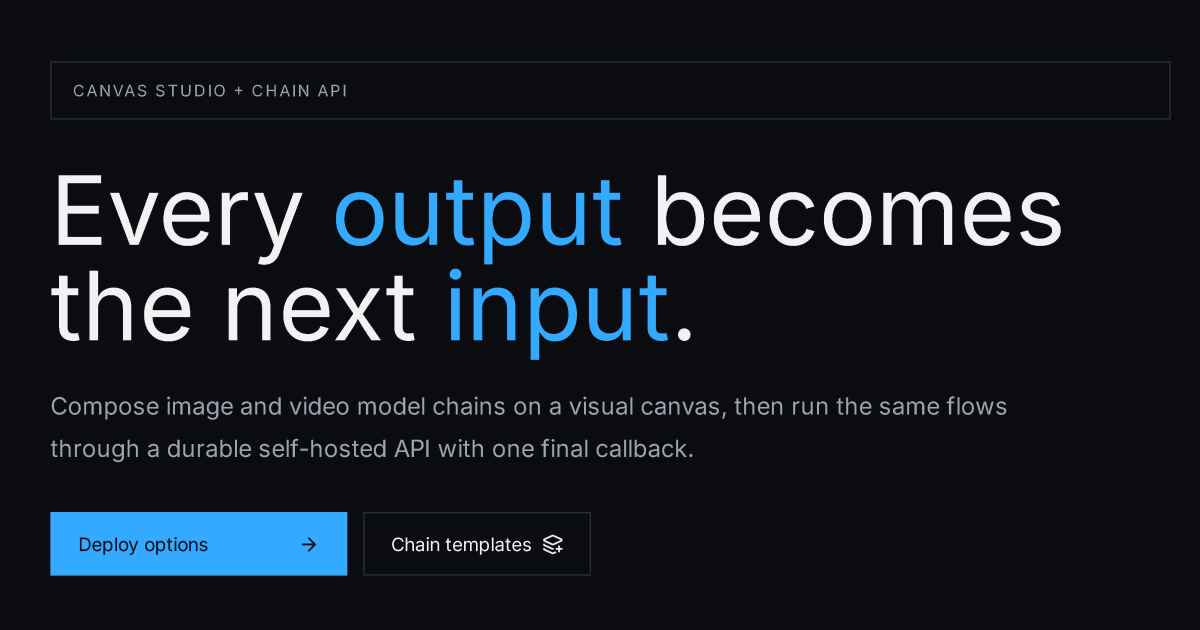
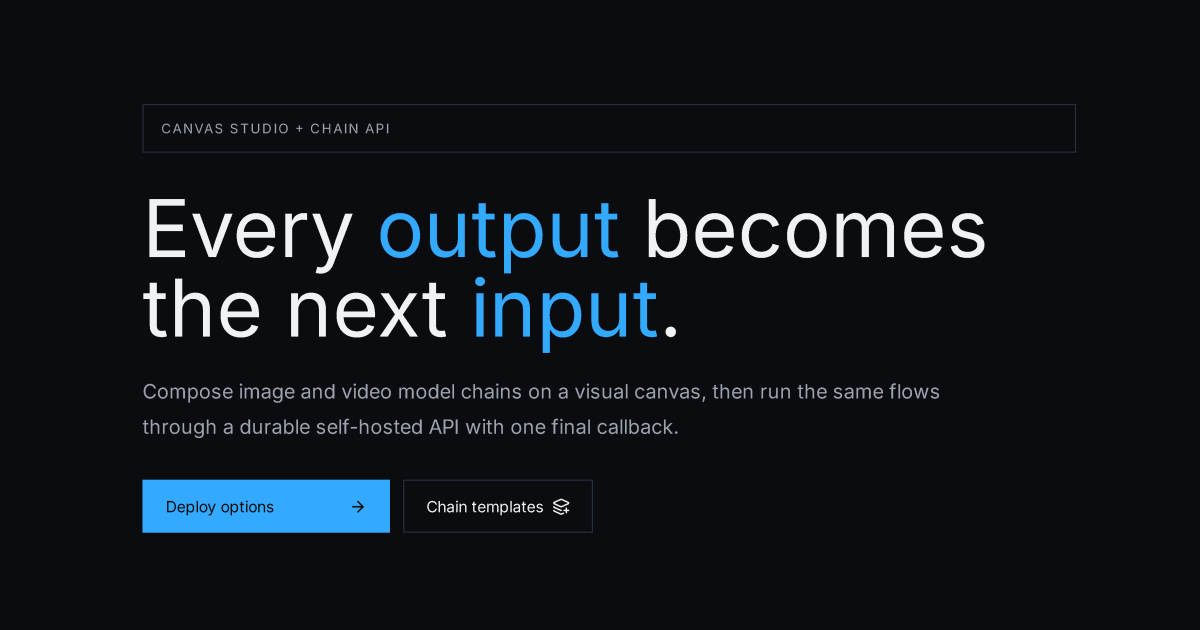
Deploy babychain OSS: 004
Package version: v0.1.0.

Publish the standalone babychain OSS. See CHANGELOG.md for the complete change summary.

diff --git a/README.md b/README.md
@@ -56,6 +56,10 @@ Canvas studio and durable chain API for image and video model workflows with one
 
 <img src="public/dashboard.png" alt="BabyChain dashboard" />
 
+<br />
+
+<img src="public/hero.png" alt="BabyChain hero" />
+
 </div>
 
 <br />
@@ -94,20 +98,20 @@ See [`CHANGELOG.md`](CHANGELOG.md) to track releases and public contract changes
 
 ## Overview
 
-BabyChain is a visual studio for chaining generative media models, backed by a durable HTTP API. Owners compose multi-flow image → video chains on a canvas — every edit persists automatically to Aurora — and the exact same chain contract is callable from product code through authenticated API routes. There is no local model/GPU runtime requirement and no caller-side provider keys: deploy BabyChain, configure server-side credentials, design flows on the canvas, run them in place, and let products call the same durable API.
+BabyChain is a visual studio for chaining generative media models, backed by a durable HTTP API. Owners compose multi-flow image → video chains on a canvas, every edit persists automatically to Aurora, and the exact same chain contract is callable from product code through authenticated API routes. There is no local model/GPU runtime requirement and no caller-side provider keys: deploy BabyChain, configure server-side credentials, design flows on the canvas, run them in place, and let products call the same durable API.
 
 ## Why BabyChain
 
-BabyChain turns model-to-model media workflows into durable backend runs. Compose flows on the canvas or send one API request — either way BabyChain starts the chain, persists every step, hands generated media from one model to the next, and sends one signed callback when the final result is ready.
+BabyChain turns model-to-model media workflows into durable backend runs. Compose flows on the canvas or send one API request. Either way, BabyChain starts the chain, persists every step, hands generated media from one model to the next, and sends one signed callback when the final result is ready.
 
 - **Multi-flow canvas studio**: run many independent image → video flows side by side on one permanent workspace. Every edit autosaves to Aurora and survives reloads, logout, and device switches; only an explicit reset clears it.
-- **Run in place, save what matters**: each flow ends in a runner card — "Run only" streams step outputs onto the canvas; "Run and save" also snapshots the flow into the Library with its results.
-- **Same contract for products**: the canvas drives `POST /api/v1/chains/runs` — the exact API your product code calls. Nothing is studio-only magic.
+- **Run in place, save what matters**: each flow ends in a runner card. "Run only" streams step outputs onto the canvas; "Run and save" also snapshots the flow into the Library with its results.
+- **Same contract for products**: the canvas drives `POST /api/v1/chains/runs`, the exact API your product code calls. Nothing is studio-only magic.
 - **Self-hosted control plane**: deploy on Vercel with your own environment and secrets.
 - **Server-side credentials**: keep inference provider keys or BabySea keys inside your backend. Caller apps only use BabyChain API keys.
 - **Durable execution**: store run state, ordered steps, provider request ids, generation ids, outputs, callbacks, and failure details in Aurora.
 - **Product-ready callbacks**: return a public run resource from create/get routes and send the same resource through one final signed webhook.
-- **Schema-true node cards**: canvas fields are generated from each model's Semantic Lady schema — exact fields, enum options, ranges, and defaults — so the UI can never offer a parameter the run API would reject.
+- **Schema-true node cards**: canvas fields are generated from each model's Semantic Lady schema, including exact fields, enum options, ranges, and defaults, so the UI can never offer a parameter the run API would reject.
 
 ## BabyChain and canvas workflow tools
 
@@ -153,7 +157,7 @@ flowchart LR
         CRON["/api/cron/process-runs"]
     end
 
-    subgraph AWS["AWS Aurora PostgreSQL — babychain_private"]
+    subgraph AWS["AWS Aurora PostgreSQL: babychain_private"]
         RUNS[("chain_run / chain_step<br/>(durable run state)")]
         CANVAS[("canvas<br/>(saved node graphs)")]
         KEYS[("api_key / audit_event<br/>callback_delivery / babysea_webhook_delivery")]
@@ -180,7 +184,7 @@ flowchart LR
     RUNNER -->|one signed callback| APP
 ```
 
-Aurora is the system of record: every run, step, output URL, API key hash, audit event, callback delivery, inbound BabySea webhook delivery, and saved canvas lives in the `babychain_private` schema. Vercel hosts the stateless control plane — any function instance can pick up a run mid-chain because all state round-trips through Aurora. Polling `GET /api/v1/chains/get/{runId}` (or the cron route) advances in-flight runs, so long chains survive serverless function time limits.
+Aurora is the system of record: every run, step, output URL, API key hash, audit event, callback delivery, inbound BabySea webhook delivery, and saved canvas lives in the `babychain_private` schema. Vercel hosts the stateless control plane; any function instance can pick up a run mid-chain because all state round-trips through Aurora. Polling `GET /api/v1/chains/get/{runId}` (or the cron route) advances in-flight runs, so long chains survive serverless function time limits.
 
 ## Quickstart
 
@@ -206,11 +210,11 @@ Open <http://localhost:3011>. The owner dashboard lives at `/dashboard/canvas`; 
 
 ## Database (AWS Aurora / PostgreSQL)
 
-BabyChain stores all durable runtime state — API keys, chain runs, ordered steps, saved canvases, webhook deliveries, callbacks, and audit events — in a private `babychain_private` schema on **AWS Aurora PostgreSQL**. `DATABASE_URL` is the only required database value.
+BabyChain stores all durable runtime state in a private `babychain_private` schema on **AWS Aurora PostgreSQL**: API keys, chain runs, ordered steps, saved canvases, webhook deliveries, callbacks, and audit events. `DATABASE_URL` is the only required database value.
 
 ```bash
 # Aurora cluster writer endpoint (sslmode=require enables TLS)
-DATABASE_URL=postgresql://USER:PASSWORD@CLUSTER.cluster-xxxx.REGION.rds.amazonaws.com:5432/postgres?sslmode=require
+DATABASE_URL=postgresql://USER:PASSWORD@CLUSTER.cluster-xxxxxxxxxxxx.REGION.rds.amazonaws.com:5432/postgres?sslmode=require
 ```
 
 Aurora presents an Amazon RDS CA that is not in the Node.js trust store. For Aurora/RDS endpoints, include `?sslmode=require` in `DATABASE_URL` so the connection clearly requests TLS. BabyChain's pool strips `sslmode`/`ssl` query params and connects with TLS using `rejectUnauthorized: false`, so no manual CA bundle is required. To connect to a local PostgreSQL instead, point `DATABASE_URL` at `localhost` (TLS is auto-disabled for `localhost`/`127.0.0.1`).
@@ -274,7 +278,7 @@ aws ec2 describe-subnets --filters Name=vpc-id,Values=<VPC_ID> \
   --query 'Subnets[].SubnetId' --output text
 ```
 
-**2. DB subnet group** (tells Aurora which subnets to span — needs ≥2 AZs):
+**2. DB subnet group** (tells Aurora which subnets to span; needs ≥2 AZs):
 
 ```bash
 aws rds create-db-subnet-group \
@@ -440,7 +444,7 @@ Set every value from [`.env.example`](.env.example) in the Vercel project (notab
 
 **Reaching Aurora from Vercel.** Vercel functions have dynamic egress IPs, so allowing a single IP in the Aurora security group is not reliable. Use one of:
 
-- **RDS Proxy** in front of Aurora with a publicly resolvable endpoint, scoped by security group — recommended; it also pools connections for serverless functions.
+- **RDS Proxy** in front of Aurora with a publicly resolvable endpoint, scoped by security group. Recommended; it also pools connections for serverless functions.
 - **AWS PrivateLink / VPC peering** to keep Aurora private and connect over private networking.
 - A short-lived demo only: a publicly accessible cluster with the security group scoped to the VPC CIDR.
 
